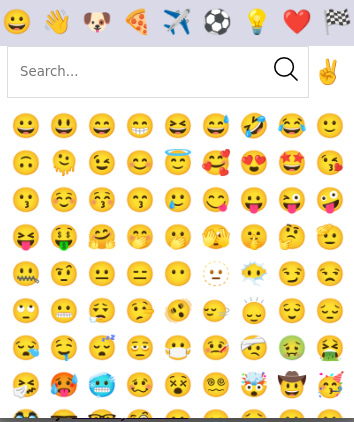
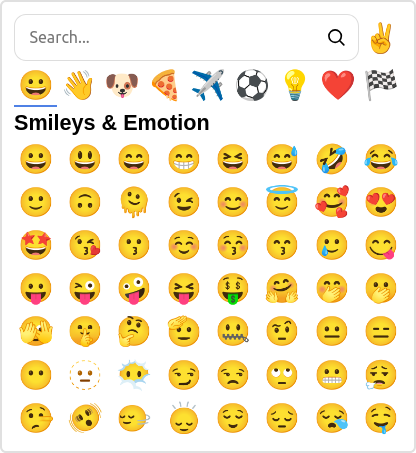
CSS vars, README

diff --git a/assets/emoji_picker.css b/assets/emoji_picker.css
@@ -4,10 +4,16 @@
 	--emoji-size-inner : var(--emoji-size,1.5em);
 	--num-columns-inner: var(--num-columns, 9);
 	--num-rows-inner: var(--num-rows, 10);
- 	--bg-color-inner: var(--bg-color, white);
+ 	--background-inner: var(--background, white);
+	--border-color-inner: var(--border-color,#e0e0e0);
+	--border-size-inner: var(--border-size,1px);
+	--border-radius-inner: var(--border-radius,0);
+	--box-shadow-inner: var(--box-shadow, none);
 
-	background-color: var(--bg-color-inner);
-	box-shadow: rgba(0, 0, 0, 0.25) 0px 54px 55px, rgba(0, 0, 0, 0.12) 0px -12px 30px, rgba(0, 0, 0, 0.12) 0px 4px 6px, rgba(0, 0, 0, 0.17) 0px 12px 13px, rgba(0, 0, 0, 0.09) 0px -3px 5px ;
+	background-color: var(--background-inner);
+	border: var(--border-size-inner) solid var(--border-color-inner);
+	border-radius: var(--border-radius-inner);
+	box-shadow: var(--box-shadow-inner);
 	width: calc( 9 * var(--emoji-size-inner) * 1.5 + 20px);
 	padding-top: 0.5em;
 	padding-bottom: 0.5em;
@@ -83,7 +89,7 @@
 	display: inline-block;
 	border: none;
 	color: #008CBA;
-	background-color: var(--bg-color-inner);
+	background-color: var(--background-inner);
 	cursor: pointer;
 	padding: 0;
 	width: 1.5em;

diff --git a/README.md b/README.md
@@ -25,5 +25,17 @@ fn example() -> Element
 
 # CSS
 
-Copy contents assets/emoji_picker.css into your css file.
+Copy assets/emoji_picker.css into your asset/ folder.
+Colors and sizes can be styled with CSS variables:
 
+| Variable | Default | Description |
+|:-----|:--------:|------:|
+| --font-size   | 1.5em | Font-size |
+| --emoji-size | 1.5em | Size of emojis |
+| --num-columns | 9 | Number of columns in emoji grid |
+| --num-rows | 10 | Number of rows in emoji grid |
+| --background | white | Background color |
+| --border-color | #e0e0e0 | Border color |
+| --border-size | 1px | Width of border |
+| --border-radius | 0 | Radius of border |
+| --box-shadow | none | Box shadow |
